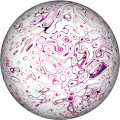
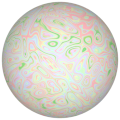
Update scream snapshots

diff --git a/docs/scream.md b/docs/scream.md
@@ -11,15 +11,15 @@ by Edvard Munch. Click on a snapshot to open it online.
 
 <p class="gallery">
 
-	<a class="style-block nocaption" href="../online/scream.html?">
+	<a class="style-block nocaption" href="../online/scream.html?scale=1.4&variety=1&color=15790176&background=13668496">
 		<img src="images/scream-1.png">
 	</a>
 
-	<a class="style-block nocaption" href="../online/scream.html?">
+	<a class="style-block nocaption" href="../online/scream.html?http://localhost/online/scream?scale=1.592&variety=0&color=16777215&background=5330612">
 		<img src="images/scream-2.png">
 	</a>
 
-	<a class="style-block nocaption" href="../online/scream.html?">
+	<a class="style-block nocaption" href="../online/scream.html?http://localhost/online/scream?scale=1.6&variety=1&color=16711909&background=13752561">
 		<img src="images/scream-3.png">
 	</a>
 
@@ -36,7 +36,7 @@ model.material.colorNode = scream ( {
 	variety: 1,
 	color: new THREE.Color(15790176),
 	background: new THREE.Color(13668496),
-	seed: 0
+	seed: 0,
 } );
 ```
 
